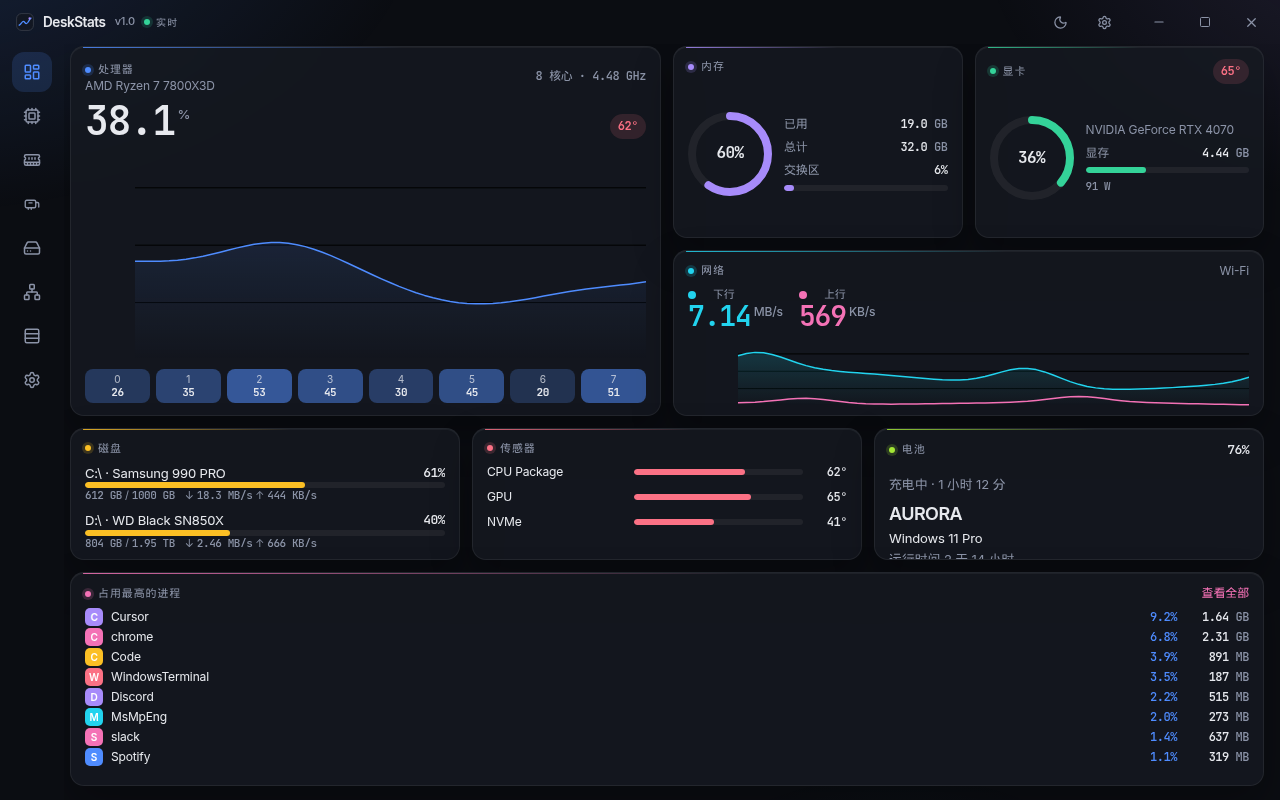
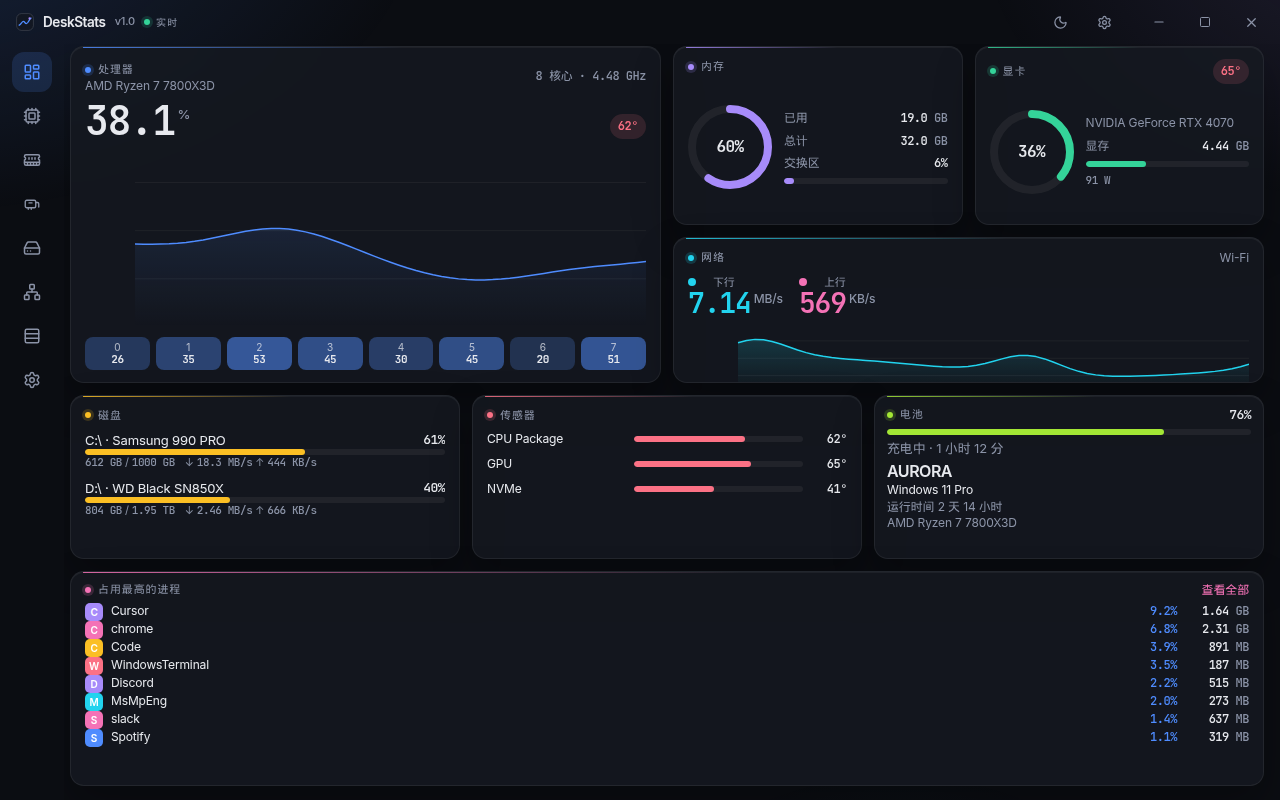
Fit the system card and soften light chart grids.
Keep uptime and the CPU model inside the overview card at 1280×800, resolve uPlot grid colors so light mode stays faint, and refresh the README screenshots.

diff --git a/src/components/Chart.tsx b/src/components/Chart.tsx
@@ -2,6 +2,7 @@ import { useEffect, useRef } from "react";
 import uPlot from "uplot";
 import "uplot/dist/uPlot.min.css";
 import { formatRate } from "../lib/format";
+import { useDesk } from "../state";
 import { hexAlpha } from "../theme";
 
 export interface ChartSeries {
@@ -31,6 +32,7 @@ export function TimeChart({
   grid: string;
   interactive?: boolean;
 }) {
+  const { theme } = useDesk();
   const host = useRef<HTMLDivElement>(null);
   const tip = useRef<HTMLDivElement>(null);
   const plot = useRef<uPlot | null>(null);
@@ -38,10 +40,10 @@ export function TimeChart({
 
   const colorKey = series.map((item) => item.color).join("|");
   const labelKey = series.map((item) => `${item.label}:${item.rate ? 1 : 0}:${item.fill === false ? 0 : 1}`).join("|");
-
   useEffect(() => {
     const el = host.current;
     if (!el) return;
+    const gridColor = resolveColor(grid);
     const width = Math.max(20, Math.floor(el.clientWidth));
     const chartHeight = fill ? Math.max(48, Math.floor(el.clientHeight) || height) : height;
     latest.current = { x, series };
@@ -64,7 +66,10 @@ export function TimeChart({
       },
       legend: { show: false },
       scales: {
-        x: { time: false },
+        x: {
+          time: false,
+          range: (_u, min, max) => [min, max],
+        },
         y: {
           range: (_u, min, max) => {
             if (yMax != null) return [yMin, yMax];
@@ -80,9 +85,10 @@ export function TimeChart({
         { show: false },
         {
           show: true,
-          stroke: "transparent",
-          ticks: { show: false, stroke: "transparent", size: 0 },
-          grid: { stroke: grid, width: 1 },
+          stroke: gridColor,
+          ticks: { show: false, stroke: gridColor, size: 0 },
+          border: { show: false, stroke: gridColor, width: 1 },
+          grid: { show: true, stroke: gridColor, width: 1 },
           values: () => [],
           splits: (u) => {
             const min = u.scales.y.min ?? 0;
@@ -142,7 +148,7 @@ export function TimeChart({
     // x/series are read from this render when the visual options change.
     // Streaming samples update the chart through the effect below.
     // eslint-disable-next-line react-hooks/exhaustive-deps
-  }, [height, fill, colorKey, labelKey, grid, yMin, yMax, interactive]);
+  }, [height, fill, colorKey, labelKey, grid, theme, yMin, yMax, interactive]);
 
   useEffect(() => {
     latest.current = { x, series };
@@ -154,6 +160,13 @@ export function TimeChart({
       <div className="chart-tip num" ref={tip} />
     </div>
   );
+}
+
+function resolveColor(input: string): string {
+  const match = /var\((--[\w-]+)\)/.exec(input);
+  if (!match || typeof document === "undefined") return input;
+  const value = getComputedStyle(document.documentElement).getPropertyValue(match[1]).trim();
+  return value || input;
 }
 
 function toData(x: number[], series: ChartSeries[]): uPlot.AlignedData {

diff --git a/src/index.css b/src/index.css
@@ -39,7 +39,7 @@ html[data-theme="light"] {
   --border-strong: rgba(15, 23, 42, 0.16);
   --text: #0f172a;
   --text-muted: #5b6475;
-  --grid-line: rgba(15, 23, 42, 0.06);
+  --grid-line: rgba(15, 23, 42, 0.055);
   --heat-base: #e8edf5;
   --shadow: 0 1px 2px rgba(15, 23, 42, 0.04), 0 16px 36px rgba(15, 23, 42, 0.06);
   --inset: inset 0 1px 0 rgba(255, 255, 255, 0.9);
@@ -255,7 +255,7 @@ html:not(.reduce-motion) .live-dot {
   min-height: 0;
   display: grid;
   grid-template-columns: repeat(12, minmax(0, 1fr));
-  grid-template-rows: minmax(0, 1.04fr) minmax(0, 0.9fr) minmax(0, 0.72fr) minmax(0, 1.16fr);
+  grid-template-rows: minmax(0, 0.98fr) minmax(0, 0.8fr) minmax(0, 0.9fr) minmax(0, 1.18fr);
   gap: 12px;
 }
 .span-6 { grid-column: span 6; }
@@ -473,10 +473,10 @@ html:not(.reduce-motion) .card:hover {
 .sensor-row { grid-template-columns: minmax(72px, 0.9fr) minmax(64px, 1.1fr) 36px; font-size: 12px; }
 .mini-proc {
   grid-template-columns: 18px minmax(0, 1fr) 48px 64px;
-  height: 18px;
+  height: 16px;
   font-size: 12px;
 }
-.card.procs { gap: 4px; padding-top: 10px; padding-bottom: 8px; }
+.card.procs { gap: 2px; padding-top: 8px; padding-bottom: 6px; }
 .avatar {
   width: 18px;
   height: 18px;
@@ -493,8 +493,10 @@ html:not(.reduce-motion) .card:hover {
 .legend { display: flex; gap: 12px; align-items: center; font-size: 11px; color: var(--text-muted); }
 .legend i { width: 8px; height: 8px; border-radius: 99px; display: inline-block; margin-right: 5px; }
 
-.sys-name { font-size: 18px; font-weight: 600; letter-spacing: -0.03em; }
-.sys-meta { display: flex; flex-direction: column; gap: 3px; min-width: 0; }
+.sys-name { font-size: 16px; font-weight: 600; letter-spacing: -0.03em; line-height: 1.2; }
+.sys-meta { display: flex; flex-direction: column; gap: 1px; min-width: 0; font-size: 12px; line-height: 1.3; }
+.card.sys { gap: 5px; padding: 10px 12px 8px; }
+.card.sys .muted { line-height: 1.3; }
 
 .detail {
   display: flex;

diff --git a/src/state.tsx b/src/state.tsx
@@ -3,6 +3,7 @@ import {
   useCallback,
   useContext,
   useEffect,
+  useLayoutEffect,
   useMemo,
   useRef,
   useState,
@@ -85,12 +86,16 @@ export function DeskProvider({ children }: { children: ReactNode }) {
   const accents = ACCENTS[theme];
   const motion = !settings.reduceMotion && !query.shot;
 
-  useEffect(() => {
+  useLayoutEffect(() => {
     const root = document.documentElement;
     root.dataset.theme = theme;
     root.lang = lang === "zh" ? "zh-CN" : "en";
     root.classList.toggle("reduce-motion", settings.reduceMotion || query.shot);
     root.classList.toggle("is-shot", query.shot);
+  }, [theme, lang, settings.reduceMotion, query.shot]);
+
+  useEffect(() => {
+    const root = document.documentElement;
     const frame = requestAnimationFrame(() => {
       root.dataset.ready = "1";
     });
